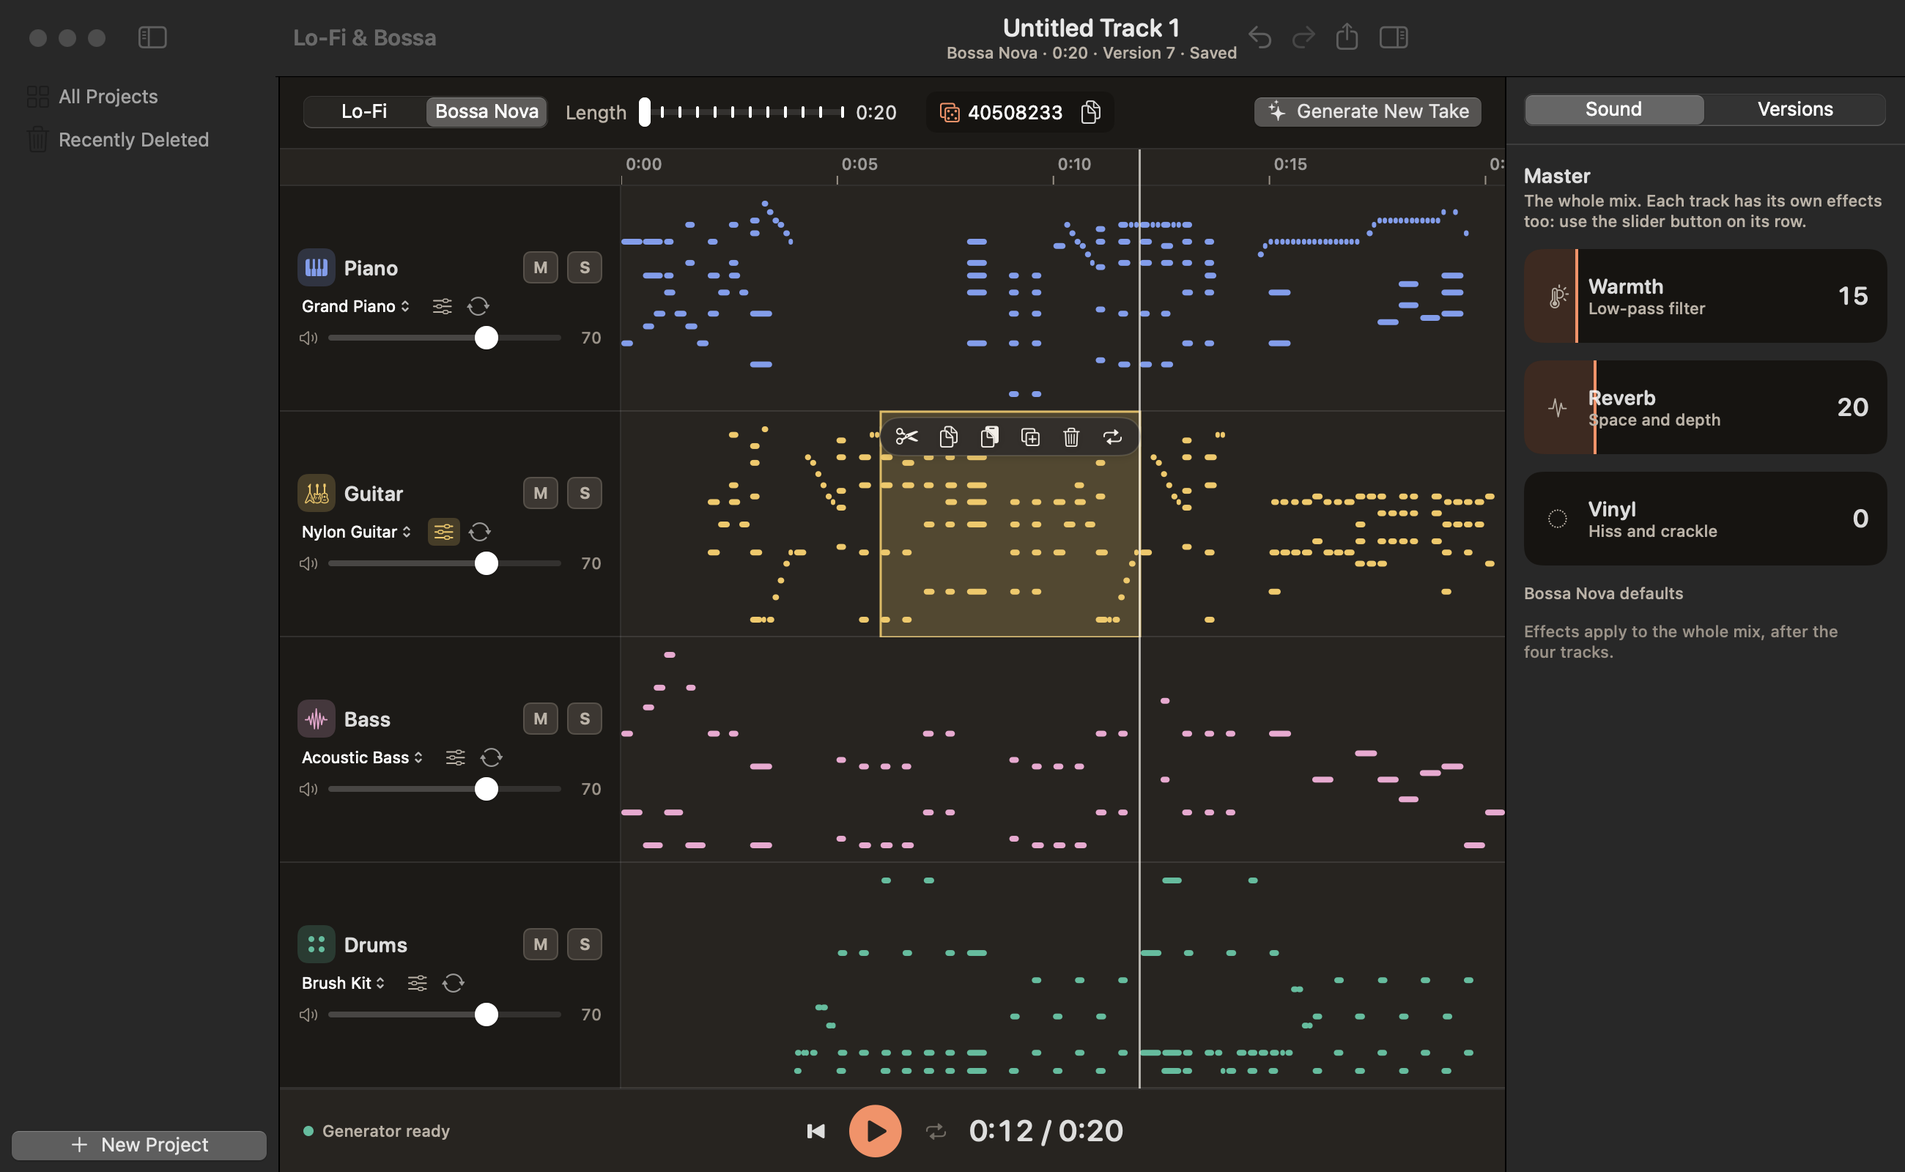
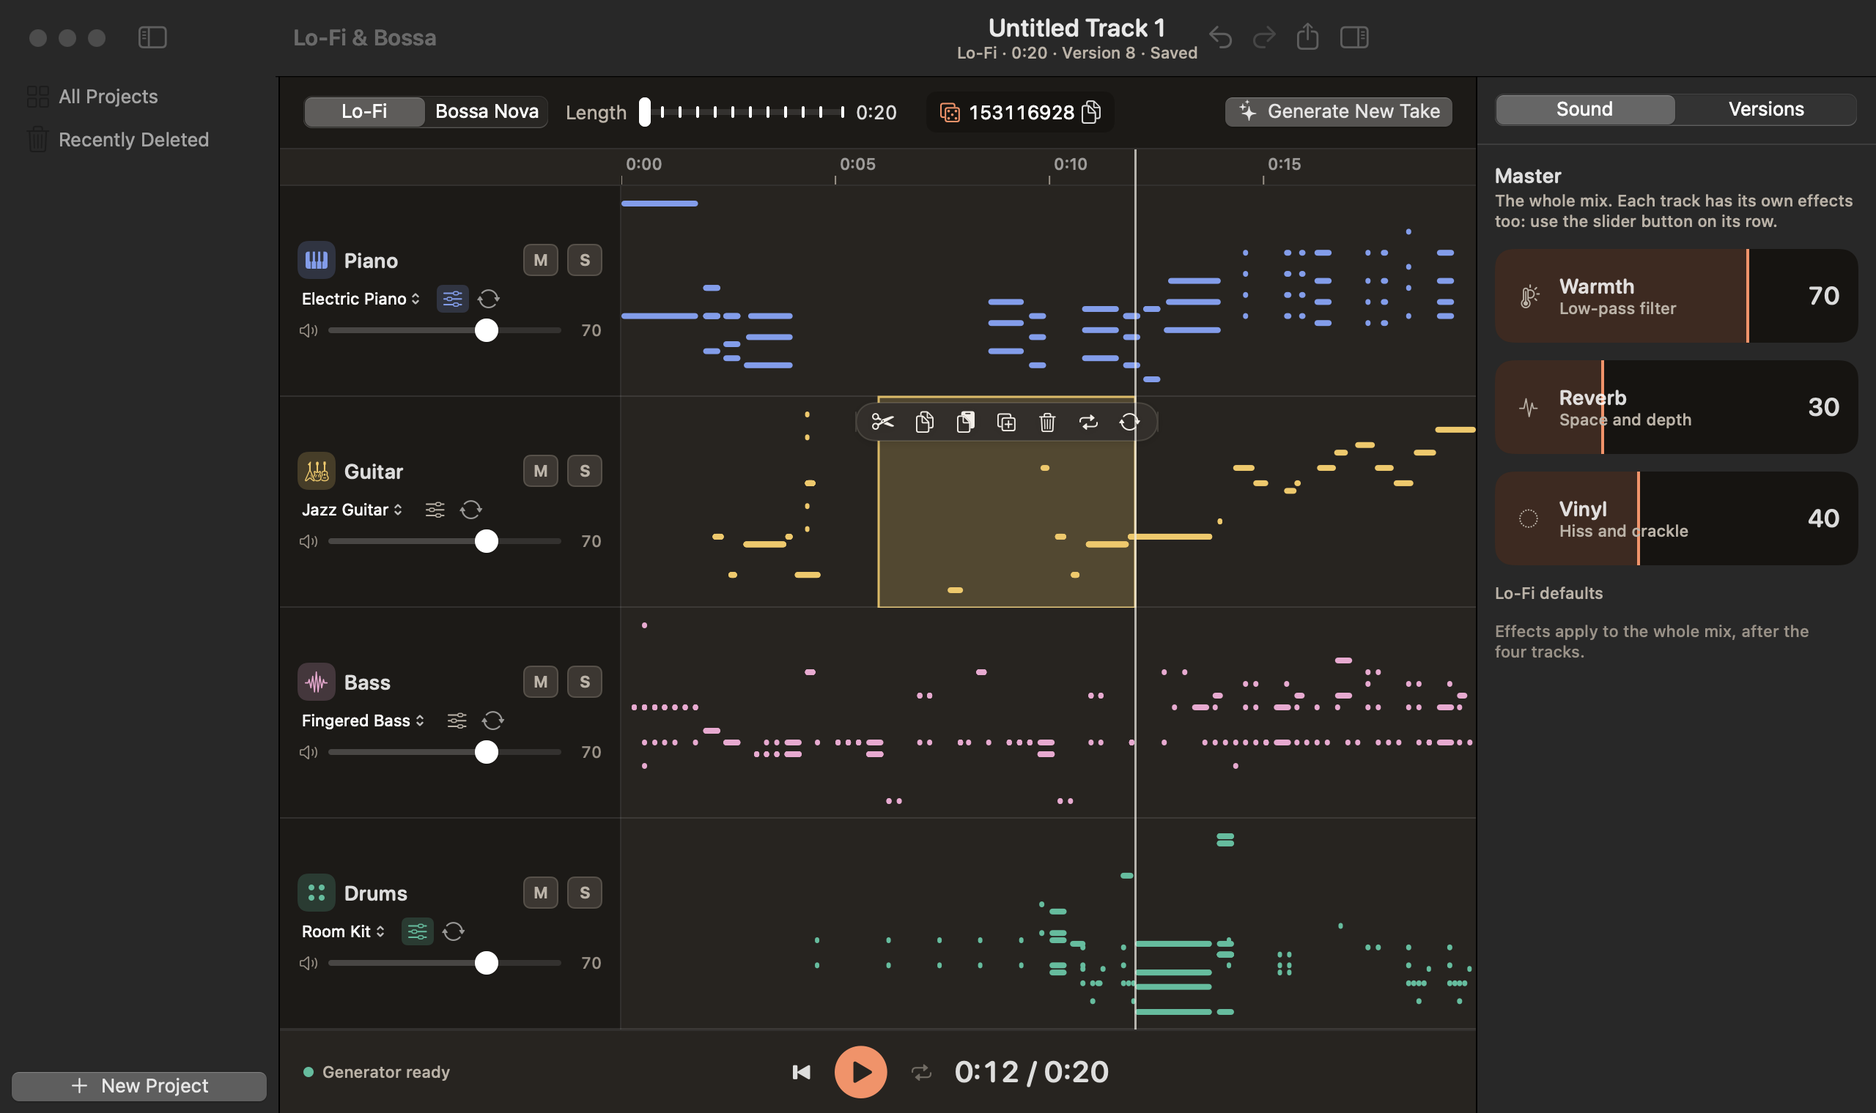
Rewrite a section with the model: range support in the server, sampler and app
/regenerate_track takes optional start/end; sampler.rewrite_range writes only that stretch of
one instrument around everything else. The app adds Rewrite Section to the section pill and
menu, shows the sweep over just the range, and records a rewriteSection version.

diff --git a/app/Sources/LofiBossa/Views/TrackRowView.swift b/app/Sources/LofiBossa/Views/TrackRowView.swift
@@ -16,6 +16,7 @@ struct TrackRowView: View {
     var isSelected = false
     var isDimmedBySolo = false
     var isRewriting = false
+    var rewritingRange: ClosedRange<Double>? = nil   // set when only part of the track is rewritten
     var isGeneratorBusy = false
     var compact = false                       // true while the piano roll is open
     var onSeek: (Double) -> Void = { _ in }
@@ -109,6 +110,23 @@ struct TrackRowView: View {
         .opacity(track.isMuted || isDimmedBySolo ? 0.55 : 1)
     }
 
+    /// Sweep and Stop over just the stretch being rewritten; the rest of the lane stays as it is.
+    private func rangeRewriteOverlay(_ range: ClosedRange<Double>) -> some View {
+        GeometryReader { geo in
+            let x = CGFloat(range.lowerBound / max(duration, 0.001)) * geo.size.width
+            let w = max(CGFloat((range.upperBound - range.lowerBound) / max(duration, 0.001)) * geo.size.width, 2)
+            ZStack {
+                Color.lfbSurface.opacity(0.8)
+                SweepView(color: track.id.color)
+                if w > 120 { RewritePill(text: "Rewriting…", action: onCancelRewrite) }
+                else { Button("Stop", action: onCancelRewrite).buttonStyle(.plain).font(.system(size: 11, weight: .semibold)).foregroundStyle(Color.lfbAccentText) }
+            }
+            .frame(width: w)
+            .clipped()
+            .offset(x: x)
+        }
+    }
+
     // MARK: Lane (notes, states)
 
     private var lane: some View {
@@ -117,10 +135,14 @@ struct TrackRowView: View {
             if isSelected { track.id.color.opacity(0.06) }
             NoteLaneView(notes: track.notes, duration: duration,
                          color: track.isMuted ? .lfbTextTertiary : track.id.color, onSeek: onSeek)
-                .opacity(isRewriting ? 0.2 : (track.isMuted ? 0.45 : (isDimmedBySolo ? 0.3 : 1)))
+                .opacity(isRewriting && rewritingRange == nil ? 0.2 : (track.isMuted ? 0.45 : (isDimmedBySolo ? 0.3 : 1)))
             if isRewriting {
-                SweepView(color: track.id.color)
-                RewritePill(text: "Rewriting the \(track.id.rawValue) to fit the other three…", action: onCancelRewrite)
+                if let range = rewritingRange {
+                    rangeRewriteOverlay(range)
+                } else {
+                    SweepView(color: track.id.color)
+                    RewritePill(text: "Rewriting the \(track.id.rawValue) to fit the other three…", action: onCancelRewrite)
+                }
             }
             if isEmpty { EmptyLane(trackName: track.id.rawValue, action: onRewrite) }
         }

diff --git a/app/Sources/LofiBossa/ViewModels/ProjectViewModel.swift b/app/Sources/LofiBossa/ViewModels/ProjectViewModel.swift
@@ -141,24 +141,43 @@ final class ProjectViewModel {
         generateTask?.cancel()
     }
 
-    func rewrite(_ track: TrackID) {
+    /// The stretch being rewritten, when only part of `rewritingTrack` is (nil = the whole track).
+    private(set) var rewritingRange: ClosedRange<Double>?
+
+    /// Rewrites just the selected section of its track with the model.
+    func rewriteSection() {
+        guard let sel = sectionSelection, canEditSections else { return }
+        rewrite(sel.track, range: sel.range)
+    }
+
+    func rewrite(_ track: TrackID, range: ClosedRange<Double>? = nil) {
         guard !isGeneratorBusy, let snapshot = project.currentSnapshot else { return }
+        rewritingRange = range
         phase = .rewriting(track, startedAt: .now)
         let attempt = (rewriteAttempts[track] ?? 0) + 1
         rewriteAttempts[track] = attempt
         let seed = rewriteSeed(songSeed: snapshot.seed, track: track, attempt: attempt)
         generateTask = Task {
             do {
-                let notes = try await generator.rewrite(track: track, model: activeModel, in: snapshot, seed: seed)
+                let notes = try await generator.rewrite(track: track, model: activeModel, in: snapshot, seed: seed, range: range)
                 var newSnapshot = snapshot
                 if let i = newSnapshot.tracks.firstIndex(where: { $0.id == track }) {
                     newSnapshot.tracks[i].notes = notes
                 }
-                appendVersion(kind: .rewrite(track), changed: [track], snapshot: newSnapshot)
+                if let range {
+                    appendVersion(kind: .rewriteSection(track, start: range.lowerBound, end: range.upperBound),
+                                  changed: [track], snapshot: newSnapshot)
+                    sectionSelection = SectionSelection(track: track, range: range)   // keep it, to try again
+                } else {
+                    appendVersion(kind: .rewrite(track), changed: [track], snapshot: newSnapshot)
+                }
+                rewritingRange = nil
                 phase = .idle
             } catch is CancellationError {
+                rewritingRange = nil
                 phase = .idle
             } catch {
+                rewritingRange = nil
                 phase = .failed(message: "The \(track.rawValue) didn't finish rewriting.",
                                 detail: (error as? API.ServerError)?.message ?? error.localizedDescription,
                                 trackScope: track)

diff --git a/app/Sources/LofiBossa/App.swift b/app/Sources/LofiBossa/App.swift
@@ -202,6 +202,23 @@ enum DevTools {
         m.redo()
         say("redo -> guitar 0-2 notes = \(notes(.guitar, 0, 2)) (expect 0)")
 
+        // rewrite just a section with the model (needs the generator)
+        func key(_ n: Note) -> String { "\(n.pitch)@\(Int((n.start * 1000).rounded()))" }   // the server rounds to ms
+        func outside(_ t: TrackID, _ lo: Double, _ hi: Double) -> [Note] {
+            (m.displayedSnapshot?.track(t).notes ?? []).filter { $0.start < lo || $0.start >= hi }
+        }
+        let guitarOutside = outside(.guitar, 4, 8), othersBefore = [TrackID.piano, .bass, .drums].map { m.displayedSnapshot?.track($0).notes ?? [] }
+        let insideBefore = NoteEditing.notes(m.displayedSnapshot?.track(.guitar).notes ?? [], in: 4...8).map { key($0) }
+        let versionsBefore = m.project.versions.count
+        m.selectSection(track: .guitar, from: 4, to: 8)
+        m.rewriteSection()
+        say("rewrite section started: rewriting \(String(describing: m.rewritingTrack)) range \(String(describing: m.rewritingRange))")
+        while m.isGeneratorBusy { try? await Task.sleep(for: .milliseconds(300)) }
+        let insideAfter = NoteEditing.notes(m.displayedSnapshot?.track(.guitar).notes ?? [], in: 4...8).map { key($0) }
+        let sameOutside = outside(.guitar, 4, 8).map { key($0) } == guitarOutside.map { key($0) }
+        let othersSame = [TrackID.piano, .bass, .drums].map { m.displayedSnapshot?.track($0).notes ?? [] } == othersBefore
+        say("rewrote guitar 4-8: versions \(versionsBefore) -> \(m.project.versions.count), last '\(m.project.versions.last?.kind.title ?? "?")', inside \(insideBefore.count) -> \(insideAfter.count) notes, changed=\(insideBefore != insideAfter), guitar outside unchanged=\(sameOutside), other tracks unchanged=\(othersSame), selection kept=\(String(describing: m.sectionSelection?.range)), phase idle=\(m.rewritingTrack == nil)")
+
         // guards
         m.selectSection(track: .guitar, from: 3, to: 3.1)
         say("too-small selection ignored: \(m.sectionSelection == nil)")

diff --git a/app/Sources/LofiBossa/Views/SectionSelectable.swift b/app/Sources/LofiBossa/Views/SectionSelectable.swift
@@ -1,7 +1,7 @@
 import SwiftUI
 
 enum SectionAction {
-    case cut, copy, paste, delete, duplicate, useAsLoop, clear
+    case cut, copy, paste, delete, duplicate, useAsLoop, rewrite, clear
 }
 
 /// Makes a track's lane selectable by dragging: drag on empty lane to pick a stretch, drag
@@ -27,7 +27,7 @@ struct SectionSelectable: ViewModifier {
     @State private var moveOffset: Double = 0
 
     private enum DragKind { case select, move }
-    private let pillWidth: CGFloat = 178
+    private let pillWidth: CGFloat = 206
 
     func body(content: Content) -> some View {
         content
@@ -100,6 +100,7 @@ struct SectionSelectable: ViewModifier {
             pillButton("plus.square.on.square", "Duplicate after", .duplicate)
             pillButton("trash", "Delete", .delete)
             pillButton("repeat", "Loop this section", .useAsLoop)
+            pillButton("arrow.triangle.2.circlepath", "Rewrite this section with the model", .rewrite)
         }
         .padding(.horizontal, 4).frame(width: pillWidth, height: 26)
         .background(Color.lfbRaised, in: Capsule())
@@ -128,6 +129,7 @@ struct SectionSelectable: ViewModifier {
             Button("Duplicate Section") { onAction(.duplicate) }.disabled(selection == nil)
             Button("Delete Section", role: .destructive) { onAction(.delete) }.disabled(selection == nil)
             Divider()
+            Button("Rewrite Section") { onAction(.rewrite) }.disabled(selection == nil)
             Button("Use as Loop Range") { onAction(.useAsLoop) }.disabled(selection == nil)
             Button("Clear Selection") { onAction(.clear) }.disabled(selection == nil)
         }

diff --git a/app/Sources/LofiBossa/Services/GeneratorClient.swift b/app/Sources/LofiBossa/Services/GeneratorClient.swift
@@ -48,8 +48,10 @@ protocol GeneratorClient: AnyObject, Observable {
     func generate(style: MusicStyle, model: NoteModel, length: Double, seed: UInt32?) -> AsyncThrowingStream<GenerationEvent, Error>
 
     /// Rewrites one track so it fits the other three. Seed is derived from the song seed plus
-    /// the track by the caller.
-    func rewrite(track: TrackID, model: NoteModel, in song: SongSnapshot, seed: UInt32) async throws -> [Note]
+    /// the track by the caller. With a `range` only that stretch (seconds) is rewritten; the
+    /// track's notes outside it come back unchanged.
+    func rewrite(track: TrackID, model: NoteModel, in song: SongSnapshot, seed: UInt32,
+                 range: ClosedRange<Double>?) async throws -> [Note]
 
     /// Wired to "Restart generator" in the offline banner.
     func restart() async throws
@@ -129,8 +131,10 @@ final class LocalGeneratorClient: GeneratorClient {
         }
     }
 
-    func rewrite(track: TrackID, model: NoteModel, in song: SongSnapshot, seed: UInt32) async throws -> [Note] {
-        let wire = try await api.regenerate(track, in: WireSong(from: song), style: song.style, model: model, seed: seed)
+    func rewrite(track: TrackID, model: NoteModel, in song: SongSnapshot, seed: UInt32,
+                 range: ClosedRange<Double>?) async throws -> [Note] {
+        let wire = try await api.regenerate(track, in: WireSong(from: song), style: song.style, model: model,
+                                            seed: seed, range: range)
         return wire.notes(track)
     }
 }

diff --git a/app/Sources/LofiBossa/Services/API.swift b/app/Sources/LofiBossa/Services/API.swift
@@ -69,14 +69,19 @@ struct API {
         return try await send(request)
     }
 
-    func regenerate(_ track: TrackID, in song: WireSong, style: MusicStyle, model: NoteModel, seed: UInt32) async throws -> WireSong {
-        let url = base.appending(path: "regenerate_track").appending(queryItems: [
+    func regenerate(_ track: TrackID, in song: WireSong, style: MusicStyle, model: NoteModel, seed: UInt32,
+                    range: ClosedRange<Double>? = nil) async throws -> WireSong {
+        var items = [
             URLQueryItem(name: "track", value: track.rawValue),
             URLQueryItem(name: "style", value: style.rawValue),
             URLQueryItem(name: "model", value: model.apiValue),
             URLQueryItem(name: "seed", value: String(seed)),
-        ])
-        var request = URLRequest(url: url)
+        ]
+        if let range {   // rewrite only this stretch; the server keeps everything outside it
+            items.append(URLQueryItem(name: "start", value: String(range.lowerBound)))
+            items.append(URLQueryItem(name: "end", value: String(range.upperBound)))
+        }
+        var request = URLRequest(url: base.appending(path: "regenerate_track").appending(queryItems: items))
         request.httpBody = try JSONEncoder().encode(song)
         return try await send(request)
     }

diff --git a/app/Sources/LofiBossa/Views/ProjectStageView.swift b/app/Sources/LofiBossa/Views/ProjectStageView.swift
@@ -366,6 +366,7 @@ private struct RulerAndTracks: View {
             isSelected: model.selectedTrack == id,
             isDimmedBySolo: model.isDimmedBySolo(id),
             isRewriting: model.rewritingTrack == id,
+            rewritingRange: model.rewritingTrack == id ? model.rewritingRange : nil,
             isGeneratorBusy: model.isGeneratorBusy,
             onSeek: { model.seek(to: $0) },
             onSelect: { model.openEditor(for: id) },
@@ -385,6 +386,7 @@ private struct RulerAndTracks: View {
                 case .delete: model.deleteSection()
                 case .duplicate: model.duplicateSection()
                 case .useAsLoop: model.useSectionAsLoop()
+                case .rewrite: model.rewriteSection()
                 case .clear: model.clearSectionSelection()
                 }
             }

diff --git a/training/server.py b/training/server.py
@@ -145,9 +145,14 @@ def generate(req: GenerateRequest):
 @app.post("/regenerate_track")
 async def regenerate_track(request: Request, track: str = Query(...), style: str = "lofi",
                            model: str = "auto",
-                           seed: int | None = None, top_p: float = Query(0.98, gt=0, le=1)):
+                           seed: int | None = None, top_p: float = Query(0.98, gt=0, le=1),
+                           start: float | None = Query(None, ge=0), end: float | None = Query(None, gt=0)):
     if track not in tracks.TRACKS:
         raise HTTPException(422, f"track must be one of {tracks.TRACKS}")
+    if (start is None) != (end is None):
+        raise HTTPException(422, "start and end go together: give both or neither")
+    if start is not None and end - start < 0.5:
+        raise HTTPException(422, "the range to rewrite must be at least half a second")
     body = await request.body()
     fmt = "json" if "json" in request.headers.get("content-type", "") else "midi"
     if fmt == "json":
@@ -175,9 +180,17 @@ async def regenerate_track(request: Request, track: str = Query(...), style: str
         raise HTTPException(400, "MIDI file is empty")
     by_track = tracks.split_events(events)
     fixed = ops.sort([tok for t in tracks.TRACKS if t != track for tok in by_track[t]])
+    ranged = start is not None
+    if ranged:
+        end = min(end, seconds)
+        if start >= end:
+            raise HTTPException(422, "the range to rewrite starts after the song ends")
 
     def run():
         with _lock:
+            if ranged:
+                return sampler.rewrite_range(model, ops.sort(events), tracks.instruments_for([track]),
+                                             start, end, top_p=top_p, seed=seed)
             return sampler.accompany(model, fixed, seconds, tracks.instruments_for([track]),
                                      top_p=top_p, seed=seed)
 
@@ -186,6 +199,31 @@ async def regenerate_track(request: Request, track: str = Query(...), style: str
 
     # Swap only the regenerated track; every other track's notes are returned untouched.
     new_notes = tracks.events_to_midi(new_events).instruments[tracks.TRACKS.index(track)].notes
+    if ranged:
+        # Keep this track's notes outside the range (one ringing into it stops where it starts),
+        # and add the new ones, which all start inside it.
+        if fmt == "json":
+            old = sent["tracks"].get(track, [])
+        else:
+            old = [{"start": n.start, "duration": n.end - n.start, "pitch": n.pitch, "velocity": n.velocity}
+                   for i in song.instruments if tracks.track_of(i.program, i.is_drum) == track for n in i.notes]
+        kept = []
+        for n in old:
+            if start <= n["start"] < end:
+                continue
+            if n["start"] < start < n["start"] + n["duration"]:
+                n = {**n, "duration": start - n["start"]}
+            kept.append(n)
+        added = [{"start": n.start, "duration": n.end - n.start, "pitch": n.pitch, "velocity": n.velocity}
+                 for n in new_notes]
+        merged = sorted(kept + added, key=lambda n: (n["start"], n["pitch"]))
+        if fmt == "json":
+            sent["tracks"][track] = [{"start": round(n["start"], 3), "duration": round(n["duration"], 3),
+                                      "pitch": n["pitch"], "velocity": n["velocity"]} for n in merged]
+            sent["seed"] = seed
+            return sent
+        new_notes = [pretty_midi.Note(int(n["velocity"]), int(n["pitch"]), n["start"], n["start"] + n["duration"])
+                     for n in merged]
     if fmt == "json":  # hand the client's other tracks back exactly as they were sent
         sent["tracks"][track] = [{"start": round(n.start, 3), "duration": round(n.end - n.start, 3),
                                   "pitch": n.pitch, "velocity": n.velocity} for n in new_notes]

diff --git a/training/sampler.py b/training/sampler.py
@@ -219,3 +219,42 @@ def accompany(model, fixed_events, seconds, instruments, top_p=0.98, seed=None, 
         if len(new) // 3 >= min_notes_per_second * seconds:
             break
     return new
+
+
+def rewrite_range(model, events, instruments, start, end, top_p=0.98, seed=None, progress=None,
+                  min_notes_per_second=0.5):
+    """Rewrite one instrument group between `start` and `end` seconds; everything else is kept.
+
+    events       the whole song as event triples
+    instruments  model instrument ids being rewritten
+    Returns only the new events, all starting inside [start, end). The model sees the music
+    before the range as its prompt and every other event (other tracks throughout, and these
+    instruments after the range) as fixed notes to write around. The wanted instruments' own
+    notes that start inside the range are withheld, so it writes them fresh.
+    Like `accompany`, a near-silent answer is retried with rests discouraged, then forbidden.
+    """
+    from anticipation.vocab import DUR_OFFSET, NOTE_OFFSET, TIME_OFFSET
+
+    start_tick, end_tick = int(TIME_RESOLUTION * start), int(TIME_RESOLUTION * end)
+    wanted = set(instruments)
+    kept = []
+    for i in range(0, len(events), 3):
+        time = events[i] - TIME_OFFSET
+        instr = (events[i + 2] - NOTE_OFFSET) // MAX_PITCH
+        if instr in wanted and start_tick <= time < end_tick:
+            continue
+        kept.extend(events[i:i + 3])
+    for rest_penalty in (0.0, 4.0, math.inf):
+        merged = generate(model, start, end, inputs=kept, instruments=instruments, top_p=top_p,
+                          seed=seed, progress=progress, rest_penalty=rest_penalty,
+                          max_notes_per_second=12, max_rests=8)
+        new = []
+        for i in range(0, len(merged), 3):
+            time = merged[i] - TIME_OFFSET
+            instr = (merged[i + 2] - NOTE_OFFSET) // MAX_PITCH
+            if instr in wanted and start_tick <= time < end_tick:
+                dur = min(merged[i + 1] - DUR_OFFSET, end_tick - time)
+                new.extend([merged[i], DUR_OFFSET + dur, merged[i + 2]])
+        if len(new) // 3 >= min_notes_per_second * (end - start):
+            break
+    return new

diff --git a/README.md b/README.md
@@ -40,13 +40,17 @@ rewrite just one part, or open a piano roll and edit the notes by hand.
   tape-like texture), Echo, Reverb and Pan for just that instrument. Lo-Fi starts with a
   little grit and warmth on piano and drums, Bossa Nova with a little room on the guitar. They
   are part of exports too.
+- **Rewrite just a section** with the model: select a stretch of one instrument and press the
+  rewrite button (or right-click, Rewrite Section). Only that stretch is regenerated, written
+  around the other three instruments and the same instrument's music before and after it.
+  Everything else is untouched, and it is one version you can undo.
 - **Loop a range** of the song for preview or for export.
 - **Export** to WAV or M4A (rendered offline, faster than real time) or notes-only MIDI,
   for the whole song or just the loop range.
 - **The app starts its own generator.** No terminal step: launching the app launches
   `training/server.py` for you (see [How it works](#how-it-works)).
 
-![A guitar section selected on the timeline, with the cut, copy, paste, duplicate, delete and loop pill over it](docs/screenshots/sections.png)
+![A guitar section selected on the timeline, with the cut, copy, paste, duplicate, delete, loop and rewrite pill over it](docs/screenshots/sections.png)
 
 | Working on a song | Piano-roll editor |
 |---|---|
